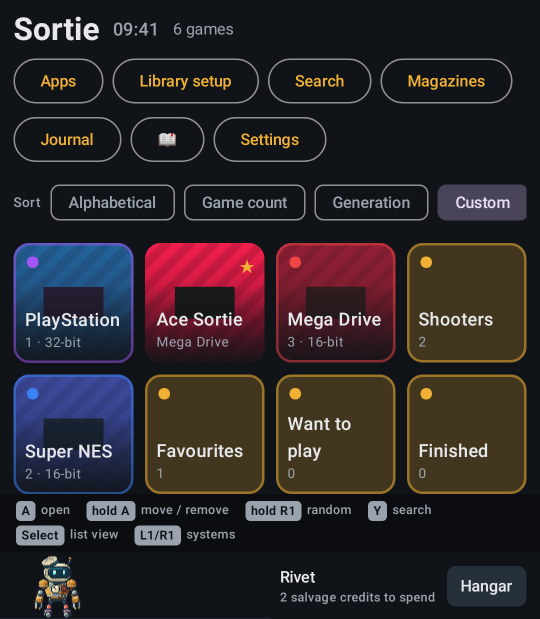
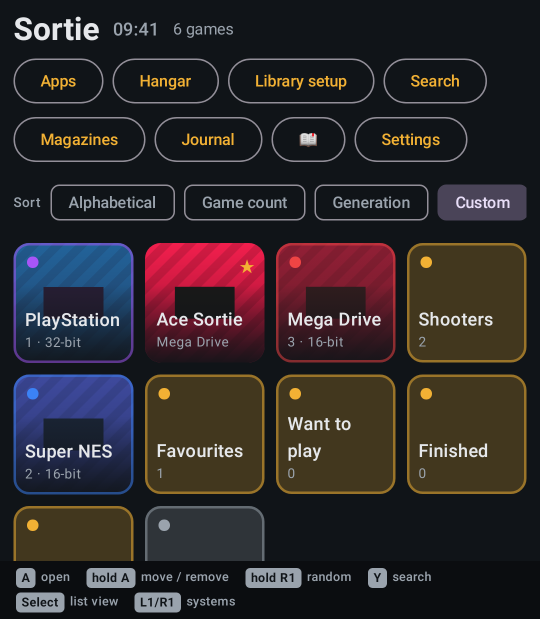
UI tests: follow the roaming companion (hidden in the fixture, Hangar from Home's header); re-record goldens
The fixture's Hangar save hides the companion (enabled=false, motion off), so no roaming
mech is drawn on Home, the shelf or articles. Home's header gains the Hangar button: the
D-pad walk follows the wrapped header, a new test opens the Hangar from it by controller
and checks B returns the focus to it, and the Workshop golden opens from there. Goldens
re-recorded without the companion footer.

diff --git a/app/src/testDebug/java/io/github/esko997/sortie/ui/HomeControllerTest.kt b/app/src/testDebug/java/io/github/esko997/sortie/ui/HomeControllerTest.kt
@@ -72,19 +72,23 @@ class HomeControllerTest {
     }
 
     /**
-     * The first D-pad press lands on the header's first action; Right walks the actions in reading order; Down reaches the sort
-     * chips, then the first tile; the grid follows the user's custom order (Continue is absent: nothing has been played), and
-     * Up from the first row returns to the sort chips rather than skipping them.
+     * The first D-pad press lands on the header's first action; Right walks the first header row in reading order and stops at
+     * its end (on the Thor's top screen the header wraps after Journal); Down reaches the second row, then the sort chips, then
+     * the first tile; the grid follows the user's custom order (Continue is absent: nothing has been played), and Up from the
+     * first row returns to the sort chips rather than skipping them.
      */
     @Test
     fun dpadWalksHeaderSortChipsAndCustomGridInOrder() {
         awaitHome()
         assertEquals(
-            listOf("Apps", "Library setup", "Search", "Magazines", "Journal", "Manual", "Settings"),
+            listOf("Apps", "Hangar", "Library setup", "Search", "Magazines", "Journal", "Journal"),
             walk(DOWN, RIGHT, RIGHT, RIGHT, RIGHT, RIGHT, RIGHT)
         )
-        assertEquals(listOf("Manual", "Journal", "Magazines", "Search", "Library setup", "Apps"), walk(LEFT, LEFT, LEFT, LEFT, LEFT, LEFT))
-        assertEquals(listOf("Alphabetical", "PlayStation 1 · 32-bit"), walk(DOWN, DOWN))
+        assertEquals(
+            listOf("Magazines", "Search", "Library setup", "Hangar", "Apps", "Apps"),
+            walk(LEFT, LEFT, LEFT, LEFT, LEFT, LEFT)
+        )
+        assertEquals(listOf("Manual", "Settings", "Manual", "Alphabetical", "PlayStation 1 · 32-bit"), walk(DOWN, RIGHT, LEFT, DOWN, DOWN))
         assertEquals(
             listOf("Ace Sortie Mega Drive ★", "Mega Drive 3 · 16-bit", "Shooters 2", "Super NES 2 · 16-bit"),
             walk(RIGHT, RIGHT, RIGHT, RIGHT)
@@ -96,12 +100,27 @@ class HomeControllerTest {
     @Test
     fun aOpensTheFocusedSystemAndBReturnsToTheSameTile() {
         awaitHome()
-        walk(DOWN, DOWN, DOWN, RIGHT, RIGHT)
+        walk(DOWN, DOWN, DOWN, DOWN, RIGHT, RIGHT) // Apps, Manual, Alphabetical, PlayStation, Ace Sortie, Mega Drive
         assertEquals("Mega Drive 3 · 16-bit", pad.focusedLabel())
         pad.press(A)
         compose.waitUntil(5_000) { compose.onAllNodesWithText("Cinder Vale").fetchSemanticsNodes().isNotEmpty() }
         pad.press(B)
         awaitHome()
         assertEquals("Mega Drive 3 · 16-bit", pad.focusedLabel())
+    }
+
+    /** The header's Hangar button opens the Hangar from the controller; B closes it and the focus is back on the button. */
+    @Test
+    fun hangarButtonOpensTheHangarAndBReturnsToIt() {
+        awaitHome()
+        assertEquals(listOf("Apps", "Hangar"), walk(DOWN, RIGHT))
+        pad.press(A)
+        compose.waitUntil(5_000) { listOf("Workshop", "Gallery").all { compose.onAllNodesWithText(it).fetchSemanticsNodes().isNotEmpty() } }
+        pad.press(B)
+        compose.waitUntil(5_000) { compose.onAllNodesWithText("Workshop").fetchSemanticsNodes().isEmpty() }
+        compose.mainClock.advanceTimeBy(500) // the button takes the focus back once the Hangar's window is gone
+        compose.waitForIdle()
+        assertEquals("Hangar", pad.focusedLabel())
+        assertEquals(listOf("Library setup"), walk(RIGHT))
     }
 }

diff --git a/app/src/testDebug/java/io/github/esko997/sortie/ui/ScreenshotTest.kt b/app/src/testDebug/java/io/github/esko997/sortie/ui/ScreenshotTest.kt
@@ -10,7 +10,7 @@ import com.github.takahirom.roborazzi.captureScreenRoboImage
 import io.github.esko997.sortie.testing.Controller
 import io.github.esko997.sortie.testing.Controller.Companion.A
 import io.github.esko997.sortie.testing.Controller.Companion.DOWN
-import io.github.esko997.sortie.testing.Controller.Companion.SELECT
+import io.github.esko997.sortie.testing.Controller.Companion.RIGHT
 import io.github.esko997.sortie.testing.DMG
 import io.github.esko997.sortie.testing.ImageLoads
 import io.github.esko997.sortie.testing.RP_NOVA
@@ -114,10 +114,8 @@ abstract class ScreenshotTest(private val device: String) {
 
     @Test
     fun hangarWorkshop() {
-        openArticle()
-        pad.press(SELECT)
-        await("Reader tools")
-        repeat(6) { if (pad.focusedLabel()?.startsWith("Visit the hangar") != true) pad.press(DOWN) }
+        awaitHome()
+        pad.press(DOWN, RIGHT) // Apps, then the header's Hangar button
         pad.press(A)
         await("Workshop", "Gallery")
         capture("hangar-workshop")

diff --git a/docs/HARDENING.md b/docs/HARDENING.md
@@ -123,21 +123,24 @@ removed them and the next Home created new ones. Any app's window churn can stil
 
 `app/src/testDebug/` runs the real `MainActivity`, `SortieApp` graph, view model, Room database (Robolectric's native
 SQLite), indexer and stores under Robolectric with native graphics, against a fixture card. They are part of
-`testDebugUnitTest`, so `tools/build.sh` and CI run them on every build (about 60 s of added test time locally; release unit
-tests stay plain JUnit).
+`testDebugUnitTest`, so `tools/build.sh` and CI run them on every build (27 tests, about 30 s of added test time locally;
+release unit tests stay plain JUnit).
 
 - **Fixture** (`testing/FixtureCard.kt`, `resources/fixtures/`): a card with `device.json`, `systems.json` (three systems),
   `launchers.json`, `folders.json` (one folder), `user.json` (custom sort, five-column grid), six ROM stubs with generated PNG
   covers and two magazine issues (No. 007 and No. 012, a long article with a lead, a portrait and a wide figure). The
-  Hangar save in `fixtures/app/` has motion off. `SortieCardRule` writes it, pins the card folder, fixes the displayed clock
+  Hangar save in `fixtures/app/` has the companion hidden and motion off, so no roaming mech is drawn on Home, the shelf or
+  articles, and the Hangar's sprites hold still. `SortieCardRule` writes it, pins the card folder, fixes the displayed clock
   (09:41 UTC, `uiNow`) and hides the bundled Field Notes issues of `-PsortieMagazinesDir` builds, so every build shows the
-  same shelf.
+  same shelf. Pictures load through the app's Coil loader on the main thread with BitmapFactory (Robolectric has no
+  ImageDecoder), so a screenshot never races a background load.
 - **Controller** (`testing/Controller.kt`): keys go to the focused window the way the input dispatcher sends them, including
   the generic controller fallbacks (A → DPAD_CENTER, B → BACK, Select → MENU) and the first D-pad press leaving touch mode.
 - **Interaction tests**: Home, Home, B keeps Sortie on Home; D-pad order through the header, sort chips and custom grid;
   A/B return to the same tile; reader position survives activity recreation; R2 opens the picture in view and B closes it
-  with the article unmoved; reader Select → Visit the hangar, B returns to the article.
-- **Screenshots** (Roborazzi): Home, magazine shelf, article at each figure and Hangar Workshop on the Thor's top
+  with the article unmoved; Home's Hangar button opens the Hangar and B puts the focus back on it; reader Select → Visit
+  the hangar, B returns to the article.
+- **Screenshots** (Roborazzi): Home, magazine shelf, article at each figure and the Hangar Workshop (from Home's header) on the Thor's top
   (`w833dp-h421dp`) and bottom (`w538dp-h444dp`) screens, the DMG (`w480dp-h551dp`) and the Retroid Pocket Nova
   (`w640dp-h480dp`), recorded at half size with no tolerance into `app/src/testDebug/screenshots/<device>/`. A build run
   with `-Proborazzi.test.verify=true` (`tools/build.sh`, CI) fails on any pixel change; CI uploads the diffs as
